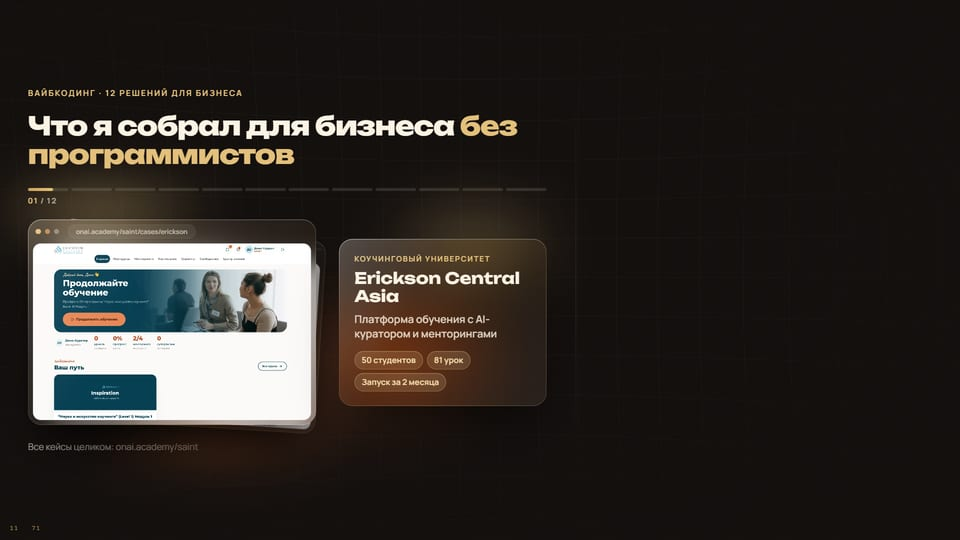
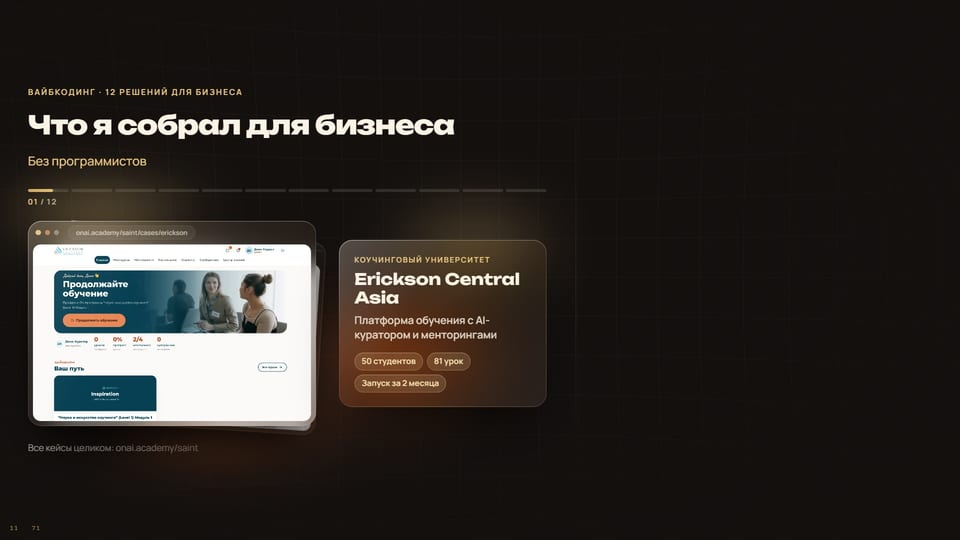
Deck 08c: title on one line, Без программистов as a gold subline

diff --git a/components/montage-deck/slides/cases.tsx b/components/montage-deck/slides/cases.tsx
@@ -118,7 +118,7 @@ export function M_Cases() {
   const next = CASES[(i + 1) % n];
 
   return (
-    <Statement tone="night" kicker={`Вайбкодинг · ${n} ${plural(n)} для бизнеса`} title={<>Что я собрал для бизнеса <Em night>без программистов</Em></>} size="2.7cqw">
+    <Statement tone="night" kicker={`Вайбкодинг · ${n} ${plural(n)} для бизнеса`} title="Что я собрал для бизнеса" lead={<Em night>Без программистов</Em>} size="2.7cqw">
       {/* Кадры всех кейсов грузятся заранее, чтобы смена окна не мигала пустым экраном */}
       <div hidden>{CASES.map((x) => x.visual.kind !== "card" && <img key={x.slug} src={x.visual.src} alt="" />)}</div>
 
